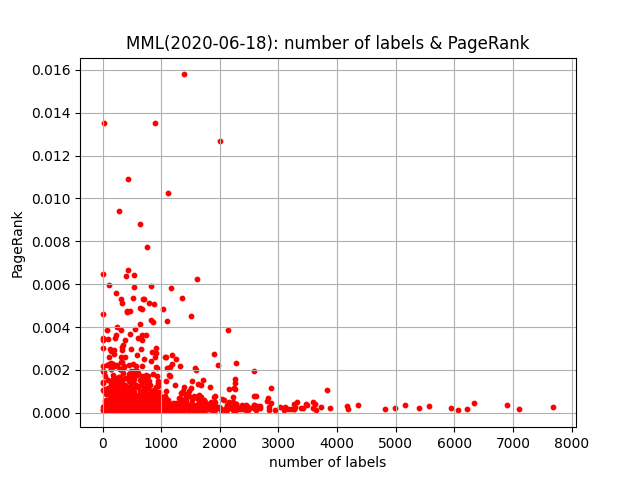
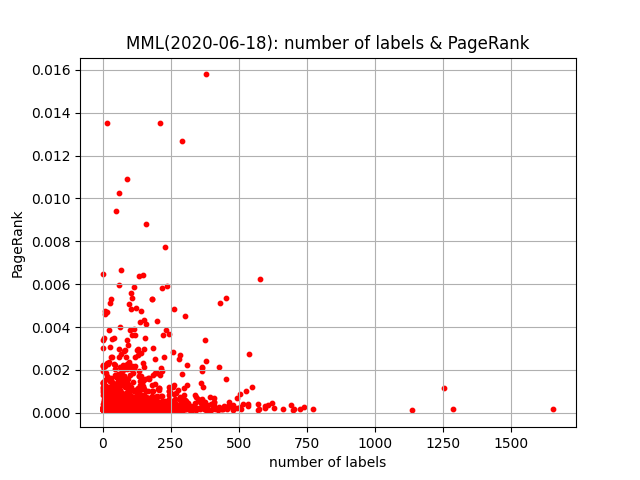
update:凝集度とa-p,a,pの関係，相関係数

diff --git a/graph/create_table.py b/graph/create_table.py
@@ -433,4 +433,4 @@ def create_tables(mml_version):
     create_pagerank_and_auth_coloring_table(mml_version=mml_version)
 
 if __name__=="__main__":
-    create_scatter_plot_number_of_theorems_definitions_and_authority()
+    create_scatter_plot_number_of_labels_and_pagerank()
